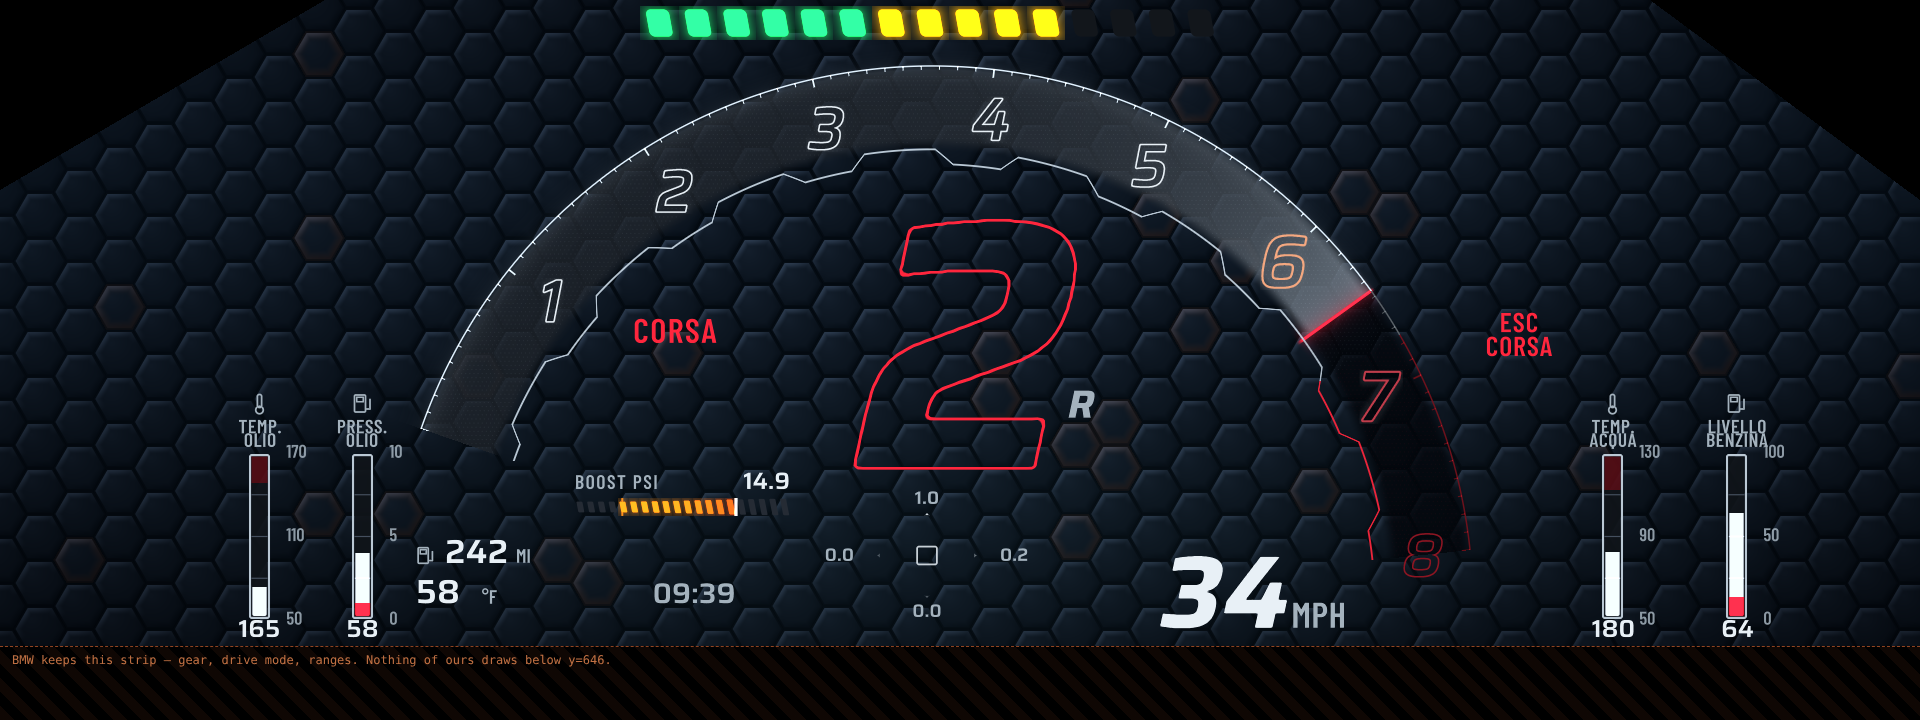
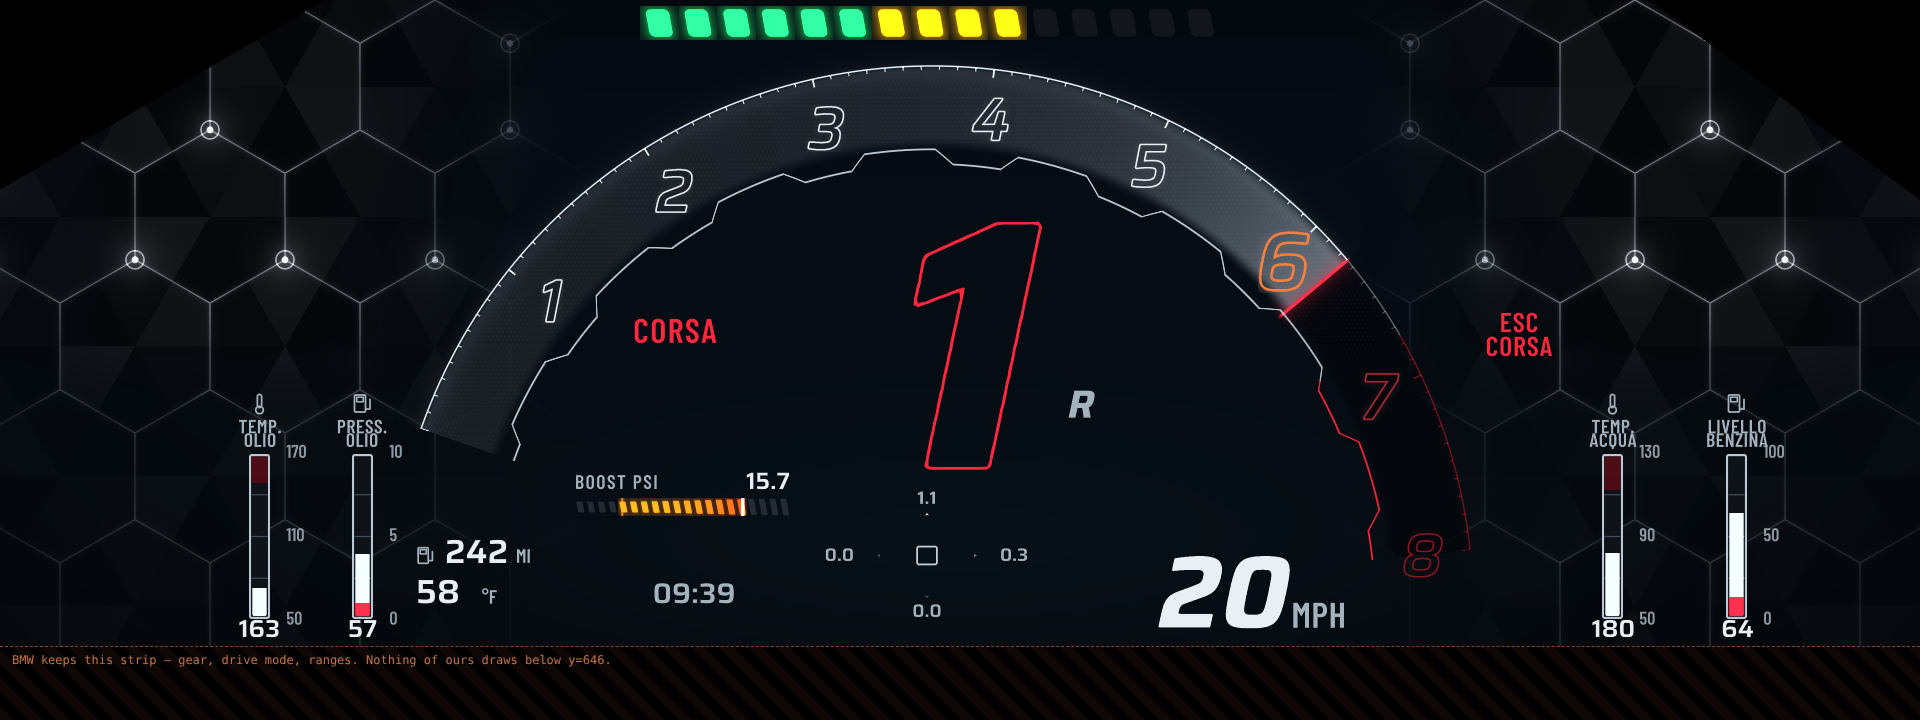
Modern background: the Lamborghini side hexagon lattice
Replace the bevelled honeycomb with the lattice from the reference:
thin silver pointy-top hexagon lines on the left and right only, a black
centre, glowing ring nodes at a fixed subset of joints, and faint faceted
glass in each cell. Mirrored so both sides match, and faded behind the
side pods so the gauges stay readable. hexSize is now the cell width
(default 150 px).

Claude-Session: https://claude.ai/code/session_016L48f7z67pV7tiJQVvmj8o

diff --git a/apps/mgustyles_toro/shaders_core.js b/apps/mgustyles_toro/shaders_core.js
@@ -71,35 +71,46 @@
         '  float facet = cov(f - 0.7) * exp(-dot(q, q) / 150000.0);',
         '  col += u_line * facet * u_facets * 0.055;',
         '',
-        /* modern: raised hexagon plates */
+        /* modern: the Lamborghini side lattice - thin silver hexagon lines,
+           pointy-top, on the left and right only, lit nodes at the joints,
+           faint faceted glass inside each cell; the centre stays black. */
         '  if (u_hex > 0.001) {',
-        '    vec4 hc = hexCell(p - vec2(0.0, 8.0), u_hexSize);',
+        /* both sides, fading in from the centre and out towards the far edge */
+        '    float side = abs(n.x - 0.5);',
+        '    float mask = smoothstep(0.19, 0.34, side) * (1.0 - 0.35 * smoothstep(0.42, 0.50, side));',
+        '    mask *= 1.0 - 0.62 * smoothstep(0.50, 0.66, n.y);',   /* quiet behind the pods */
+        /* mirror so both sides share one lattice, anchored at the screen edge */
+        '    vec2 m = vec2(side * u_size.x, p.y);',
+        '    float s = u_hexSize;',                     /* flat-to-flat width */
+        '    float R = s * 0.57735;',                   /* centre to corner */
+        /* hexCell tiles flat-top cells; work in swapped axes to get pointy-top */
+        '    vec4 hc = hexCell(m.yx + vec2(R * 0.5, 0.0), s);',
         '    vec2 g = hc.xy;',
-        '    float d = sdHex(g, u_hexSize * 0.50);',      /* < 0 inside the plate */
-        '    float plate = cov(d + 2.0);',
-        '    float gap = 1.0 - cov(d + 0.5);',
-        /* bevel: the band just inside the edge, shaded by which way it faces */
-        '    float bevel = smoothstep(-9.0, -1.5, d) * plate;',
-        '    vec2 nrm = normalize(g + vec2(0.0001));',
-        '    float facing = dot(nrm, normalize(vec2(-0.55, -0.83)));',   /* light from upper left */
-        '    float sheen = 1.0 - clamp(length(g + vec2(u_hexSize * 0.18, u_hexSize * 0.22))',
-        '                              / (u_hexSize * 0.95), 0.0, 1.0);',
-        '    float h = hash21(hc.zw);',
-        '    float near = 0.35 + 0.65 * exp(-pow((n.x - 0.5) / 0.60, 2.0)) * exp(-pow((n.y - 0.45) / 0.85, 2.0));',
-        '',
-        '    vec3 face = vec3(0.026, 0.034, 0.045) * plate * (0.80 + 0.20 * h)',
-        '              + vec3(0.032, 0.040, 0.052) * sheen * sheen * plate;',
-        '    vec3 hi = vec3(0.110, 0.130, 0.160) * bevel * max(facing, 0.0);',
-        '    vec3 lo = -vec3(0.022, 0.026, 0.032) * bevel * max(-facing, 0.0);',
-        '    vec3 groove = -vec3(0.012, 0.014, 0.018) * gap;',
-        '',
-        /* a fixed handful of cells lit in the accent, brightest at the rim */
-        '    float lit = step(0.962, h);',
-        '    float glow = lit * (smoothstep(-12.0, -1.0, d) * plate * 0.55',
-        '                        + exp(-max(d + 1.0, 0.0) / 5.0) * 0.30 * (1.0 - plate));',
-        '',
-        '    col += (face + hi + lo + groove) * u_hex * near;',
-        '    col += u_accent * glow * 0.16 * u_hex * near;',
+        '    vec2 a = abs(g);',
+        '    float hd = max(a.y, dot(a, vec2(0.8660254, 0.5)));',
+        '    float edge = s * 0.5 - hd;',               /* px to the nearest line */
+        '    float line = cov(edge - 0.6) * 0.9 + exp(-edge / 2.2) * 0.25;',
+        /* nodes: the two corners of this quadrant, then pick some to light */
+        '    vec2 c1 = vec2(R, 0.0), c2 = vec2(R * 0.5, s * 0.5);',
+        '    float d1 = length(a - c1), d2 = length(a - c2);',
+        '    vec2 corner = (d1 < d2 ? c1 : c2) * sign(g + vec2(1e-4));',
+        '    float dn = min(d1, d2);',
+        '    vec2 world = (m.yx + vec2(R * 0.5, 0.0)) - g + corner;',
+        '    float on = step(0.68, hash21(floor(world / (R * 0.5) + 0.5)));',
+        '    float ring = cov(abs(dn - 9.0) - 0.9) * 0.80;',
+        '    float core = cov(dn - 3.4) * 0.95 + cov(dn - 8.2) * 0.20;',
+        '    float halo = exp(-dn / 12.0) * 0.32;',
+        '    float node = on * max(max(ring, core), halo) * (1.0 - smoothstep(0.52, 0.60, n.y));',
+        /* faceted glass: six triangles per cell, each catching the light differently */
+        '    float ang = atan(g.x, g.y);',
+        '    float sector = floor((ang + 3.14159265) / 1.0471976);',
+        '    float shade = 0.5 + 0.5 * sin(sector * 2.3 + hash21(hc.zw) * 6.2831);',
+        '    float glass = 0.010 + 0.055 * shade * shade;',
+        '    vec3 silver = vec3(0.78, 0.80, 0.84);',
+        '    col = mix(col, vec3(0.0), 0.6 * mask * u_hex);',   /* black behind the lattice */
+        '    col += vec3(glass) * mask * u_hex;',
+        '    col += silver * line * (0.30 + 0.25 * exp(-dn / 40.0)) * mask * u_hex;',
+        '    col += mix(silver, vec3(1.0), 0.5) * node * 0.85 * mask * u_hex;',
         '  }',
         '',
         /* The glass is cut on a diagonal at the top corners: a hard edge. */

diff --git a/src/shaders/core.js b/src/shaders/core.js
@@ -70,35 +70,46 @@
         '  float facet = cov(f - 0.7) * exp(-dot(q, q) / 150000.0);',
         '  col += u_line * facet * u_facets * 0.055;',
         '',
-        /* modern: raised hexagon plates */
+        /* modern: the Lamborghini side lattice - thin silver hexagon lines,
+           pointy-top, on the left and right only, lit nodes at the joints,
+           faint faceted glass inside each cell; the centre stays black. */
         '  if (u_hex > 0.001) {',
-        '    vec4 hc = hexCell(p - vec2(0.0, 8.0), u_hexSize);',
+        /* both sides, fading in from the centre and out towards the far edge */
+        '    float side = abs(n.x - 0.5);',
+        '    float mask = smoothstep(0.19, 0.34, side) * (1.0 - 0.35 * smoothstep(0.42, 0.50, side));',
+        '    mask *= 1.0 - 0.62 * smoothstep(0.50, 0.66, n.y);',   /* quiet behind the pods */
+        /* mirror so both sides share one lattice, anchored at the screen edge */
+        '    vec2 m = vec2(side * u_size.x, p.y);',
+        '    float s = u_hexSize;',                     /* flat-to-flat width */
+        '    float R = s * 0.57735;',                   /* centre to corner */
+        /* hexCell tiles flat-top cells; work in swapped axes to get pointy-top */
+        '    vec4 hc = hexCell(m.yx + vec2(R * 0.5, 0.0), s);',
         '    vec2 g = hc.xy;',
-        '    float d = sdHex(g, u_hexSize * 0.50);',      /* < 0 inside the plate */
-        '    float plate = cov(d + 2.0);',
-        '    float gap = 1.0 - cov(d + 0.5);',
-        /* bevel: the band just inside the edge, shaded by which way it faces */
-        '    float bevel = smoothstep(-9.0, -1.5, d) * plate;',
-        '    vec2 nrm = normalize(g + vec2(0.0001));',
-        '    float facing = dot(nrm, normalize(vec2(-0.55, -0.83)));',   /* light from upper left */
-        '    float sheen = 1.0 - clamp(length(g + vec2(u_hexSize * 0.18, u_hexSize * 0.22))',
-        '                              / (u_hexSize * 0.95), 0.0, 1.0);',
-        '    float h = hash21(hc.zw);',
-        '    float near = 0.35 + 0.65 * exp(-pow((n.x - 0.5) / 0.60, 2.0)) * exp(-pow((n.y - 0.45) / 0.85, 2.0));',
-        '',
-        '    vec3 face = vec3(0.026, 0.034, 0.045) * plate * (0.80 + 0.20 * h)',
-        '              + vec3(0.032, 0.040, 0.052) * sheen * sheen * plate;',
-        '    vec3 hi = vec3(0.110, 0.130, 0.160) * bevel * max(facing, 0.0);',
-        '    vec3 lo = -vec3(0.022, 0.026, 0.032) * bevel * max(-facing, 0.0);',
-        '    vec3 groove = -vec3(0.012, 0.014, 0.018) * gap;',
-        '',
-        /* a fixed handful of cells lit in the accent, brightest at the rim */
-        '    float lit = step(0.962, h);',
-        '    float glow = lit * (smoothstep(-12.0, -1.0, d) * plate * 0.55',
-        '                        + exp(-max(d + 1.0, 0.0) / 5.0) * 0.30 * (1.0 - plate));',
-        '',
-        '    col += (face + hi + lo + groove) * u_hex * near;',
-        '    col += u_accent * glow * 0.16 * u_hex * near;',
+        '    vec2 a = abs(g);',
+        '    float hd = max(a.y, dot(a, vec2(0.8660254, 0.5)));',
+        '    float edge = s * 0.5 - hd;',               /* px to the nearest line */
+        '    float line = cov(edge - 0.6) * 0.9 + exp(-edge / 2.2) * 0.25;',
+        /* nodes: the two corners of this quadrant, then pick some to light */
+        '    vec2 c1 = vec2(R, 0.0), c2 = vec2(R * 0.5, s * 0.5);',
+        '    float d1 = length(a - c1), d2 = length(a - c2);',
+        '    vec2 corner = (d1 < d2 ? c1 : c2) * sign(g + vec2(1e-4));',
+        '    float dn = min(d1, d2);',
+        '    vec2 world = (m.yx + vec2(R * 0.5, 0.0)) - g + corner;',
+        '    float on = step(0.68, hash21(floor(world / (R * 0.5) + 0.5)));',
+        '    float ring = cov(abs(dn - 9.0) - 0.9) * 0.80;',
+        '    float core = cov(dn - 3.4) * 0.95 + cov(dn - 8.2) * 0.20;',
+        '    float halo = exp(-dn / 12.0) * 0.32;',
+        '    float node = on * max(max(ring, core), halo) * (1.0 - smoothstep(0.52, 0.60, n.y));',
+        /* faceted glass: six triangles per cell, each catching the light differently */
+        '    float ang = atan(g.x, g.y);',
+        '    float sector = floor((ang + 3.14159265) / 1.0471976);',
+        '    float shade = 0.5 + 0.5 * sin(sector * 2.3 + hash21(hc.zw) * 6.2831);',
+        '    float glass = 0.010 + 0.055 * shade * shade;',
+        '    vec3 silver = vec3(0.78, 0.80, 0.84);',
+        '    col = mix(col, vec3(0.0), 0.6 * mask * u_hex);',   /* black behind the lattice */
+        '    col += vec3(glass) * mask * u_hex;',
+        '    col += silver * line * (0.30 + 0.25 * exp(-dn / 40.0)) * mask * u_hex;',
+        '    col += mix(silver, vec3(1.0), 0.5) * node * 0.85 * mask * u_hex;',
         '  }',
         '',
         /* The glass is cut on a diagonal at the top corners: a hard edge. */

diff --git a/apps/mgustyles_toro/palette.js b/apps/mgustyles_toro/palette.js
@@ -67,8 +67,9 @@
         redFromScale: null,      /* null: derive from rpmRedline */
         /*
          * genuine: the Huracan's own field, fine stipple and faint facets.
-         * modern:  bevelled hexagon cells in light opaque touches, with a
-         *          few accent-lit cells - the Lamborghini showroom look.
+         * modern:  the Lamborghini side lattice - thin silver hexagon lines
+         *          left and right, lit nodes, faceted glass, black centre.
+         *          hexSize is the cell's flat-to-flat width in pixels.
          */
         background: 'genuine',
         /* How strongly the dial's band fills with light up to the revs, with
@@ -78,7 +79,7 @@
         stipple: null,           /* null: follow the background */
         facets: null,
         hexagons: null,
-        hexSize: 46
+        hexSize: 150
     };
 
     function clampNum(v, lo, hi, fallback) {
@@ -134,7 +135,7 @@
         s.hexagons = clampNum(s.hexagons, 0, 1.5, modern ? 1.0 : 0.0);
         s.showZeroNumeral = s.showZeroNumeral === true;
         s.dialFill = clampNum(s.dialFill, 0, 1.5, DEFAULTS.dialFill);
-        s.hexSize = clampNum(s.hexSize, 20, 120, DEFAULTS.hexSize);
+        s.hexSize = clampNum(s.hexSize, 40, 200, DEFAULTS.hexSize);
         if (['off', 'band', 'edges', 'both'].indexOf(s.revFlash) < 0) {
             s.revFlash = DEFAULTS.revFlash;
         }

diff --git a/src/theme/palette.js b/src/theme/palette.js
@@ -66,8 +66,9 @@
         redFromScale: null,      /* null: derive from rpmRedline */
         /*
          * genuine: the Huracan's own field, fine stipple and faint facets.
-         * modern:  bevelled hexagon cells in light opaque touches, with a
-         *          few accent-lit cells - the Lamborghini showroom look.
+         * modern:  the Lamborghini side lattice - thin silver hexagon lines
+         *          left and right, lit nodes, faceted glass, black centre.
+         *          hexSize is the cell's flat-to-flat width in pixels.
          */
         background: 'genuine',
         /* How strongly the dial's band fills with light up to the revs, with
@@ -77,7 +78,7 @@
         stipple: null,           /* null: follow the background */
         facets: null,
         hexagons: null,
-        hexSize: 46
+        hexSize: 150
     };
 
     function clampNum(v, lo, hi, fallback) {
@@ -133,7 +134,7 @@
         s.hexagons = clampNum(s.hexagons, 0, 1.5, modern ? 1.0 : 0.0);
         s.showZeroNumeral = s.showZeroNumeral === true;
         s.dialFill = clampNum(s.dialFill, 0, 1.5, DEFAULTS.dialFill);
-        s.hexSize = clampNum(s.hexSize, 20, 120, DEFAULTS.hexSize);
+        s.hexSize = clampNum(s.hexSize, 40, 200, DEFAULTS.hexSize);
         if (['off', 'band', 'edges', 'both'].indexOf(s.revFlash) < 0) {
             s.revFlash = DEFAULTS.revFlash;
         }

diff --git a/README.md b/README.md
@@ -57,9 +57,9 @@ document line by line.
   metrics come out right.
 - **The gear glyph** is a red outline with a transparent interior, leaning
   12°, with CORSA to its left and the pale secondary R beside it.
-- **Stipple, not honeycomb** — a fine regular point field in the annulus,
+- **Stipple in the band** — a fine regular point field in the annulus,
   which is what the Huracán's texture actually is at this scale. The
-  honeycomb is the **modern** background option.
+  hexagon lattice is the **modern** background option.
 - **Side instruments** stay narrow: thermometer and pump icons, Italian
   labelling (Temp. Acqua, Livello Benzina), fixed scale markings separate
   from the moving level.
@@ -97,10 +97,12 @@ As the revs climb:
 ### Two backgrounds
 
 `Background` keeps the **genuine** Huracán look (stipple annulus, faint
-facets) or switches to **modern**: a light, translucent honeycomb with
-bevelled 3D cells and a few accent-lit hexagons.
+facets) or switches to **modern**: the Lamborghini hexagon lattice — thin
+silver lines on the left and right only, glowing nodes at some of the
+joints, faint faceted glass inside each cell, and a black centre so the dial
+stays clean. It fades out behind the side pods to keep them readable.
 
-![Modern 3D honeycomb background](docs/img/toro-modern.png)
+![Modern hexagon lattice background](docs/img/toro-modern.png)
 
 ## Settings
 
@@ -111,7 +113,7 @@ to the cluster within half a second.
 |---|---|
 | Show on cluster | on / off (off = BMW's original cluster) |
 | Car | X3 M40i (B58) · other B58 · M car (S58) · plug-in hybrid — sets the default redline, limiter and gear count |
-| Background | Genuine Huracán (stipple) · Modern 3D honeycomb |
+| Background | Genuine Huracán (stipple) · Modern hex lattice |
 | Accent | arancio · giallo · rosso · verde · blu · viola · bianco |
 | Rev band fill | full fill and needle · subtle · off |
 | Mode label | Strada / Sport / Corsa · BMW's own names · always CORSA |
